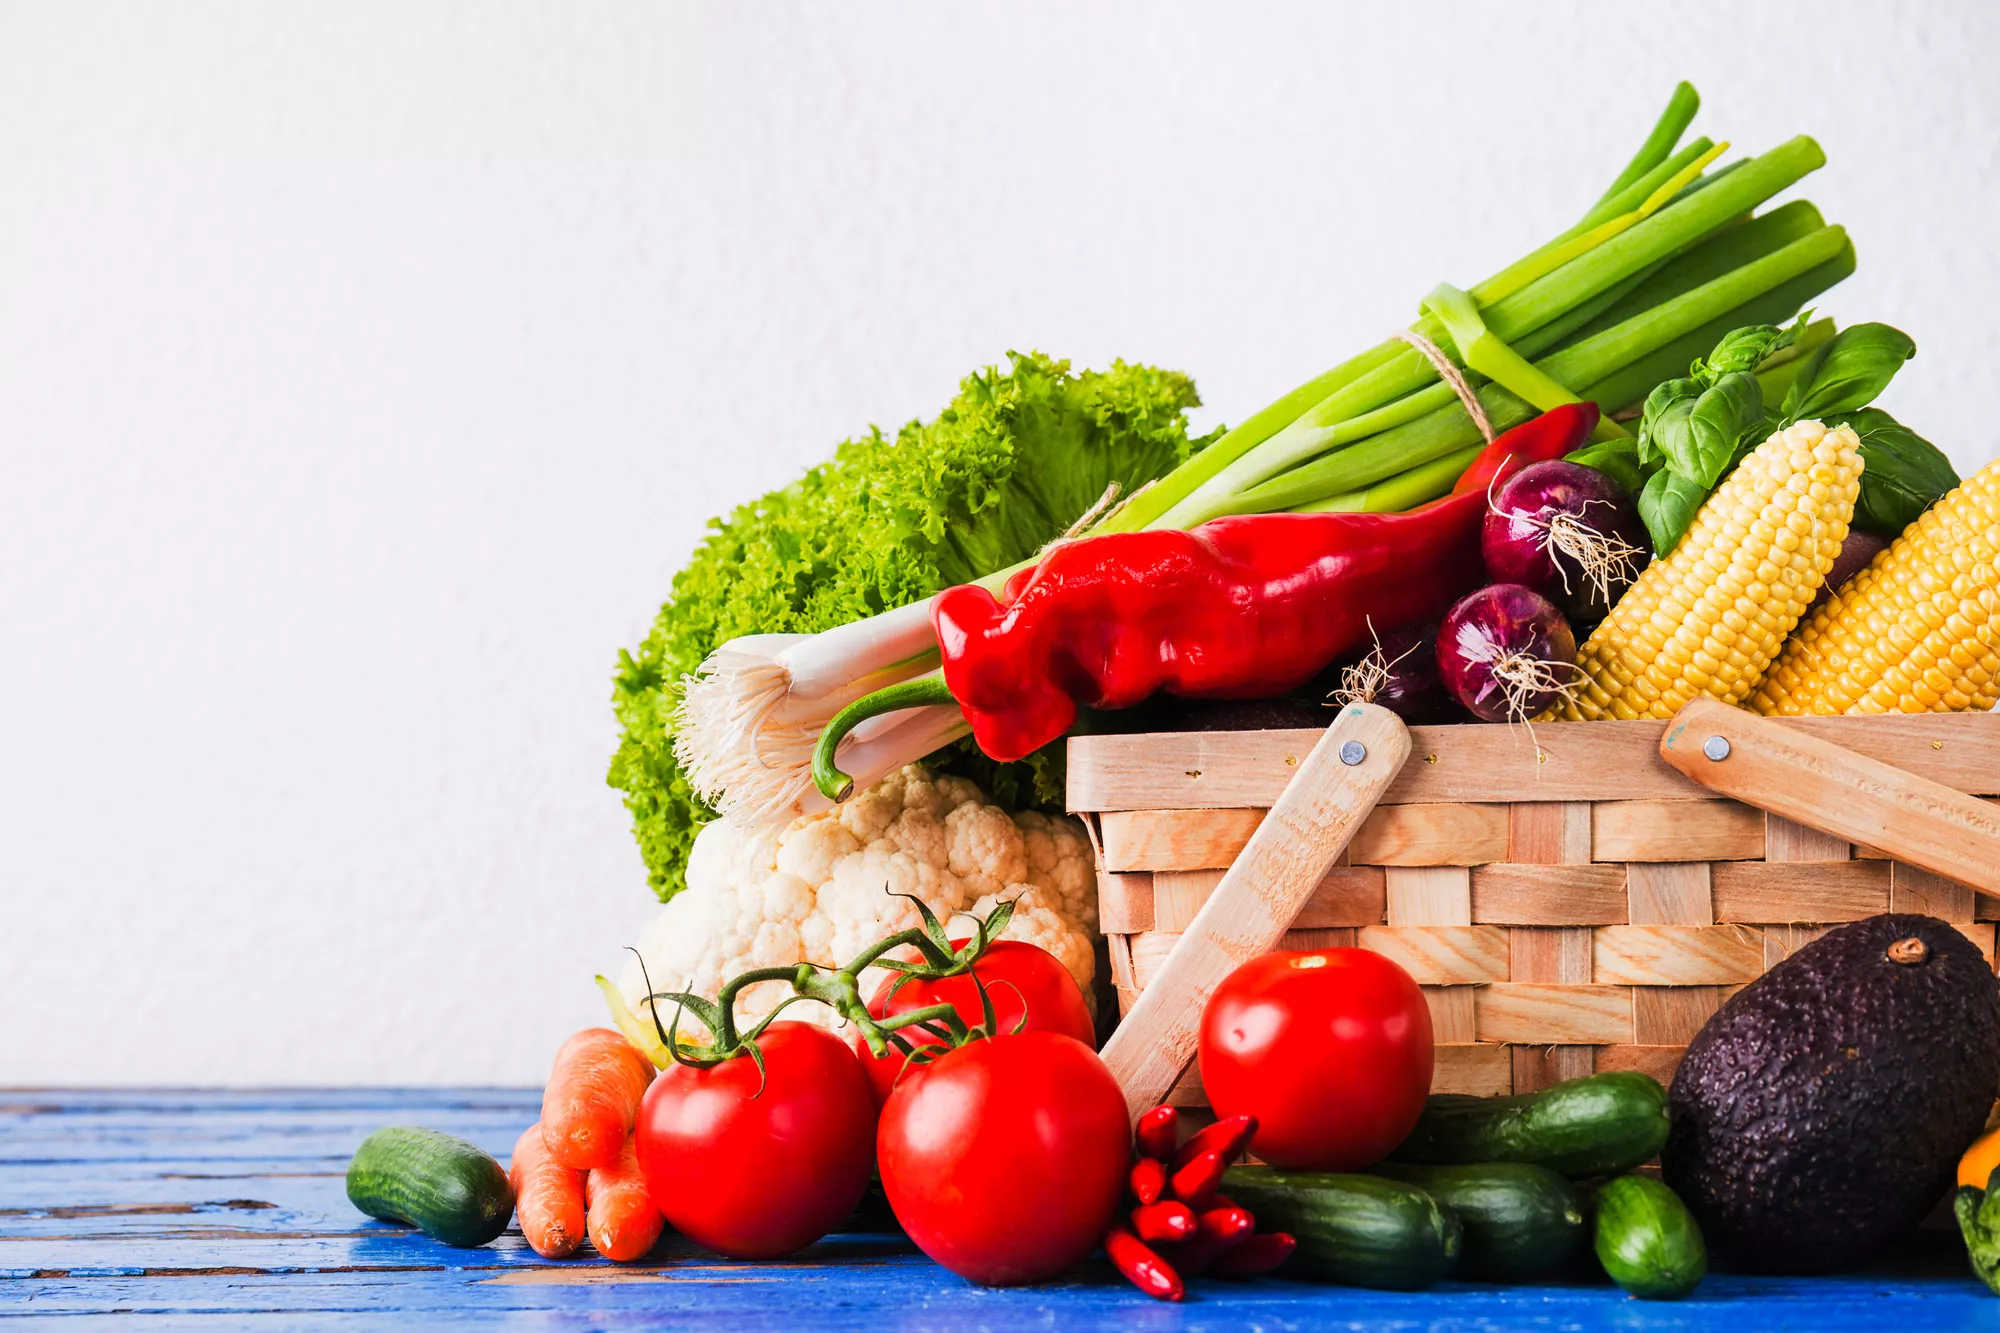
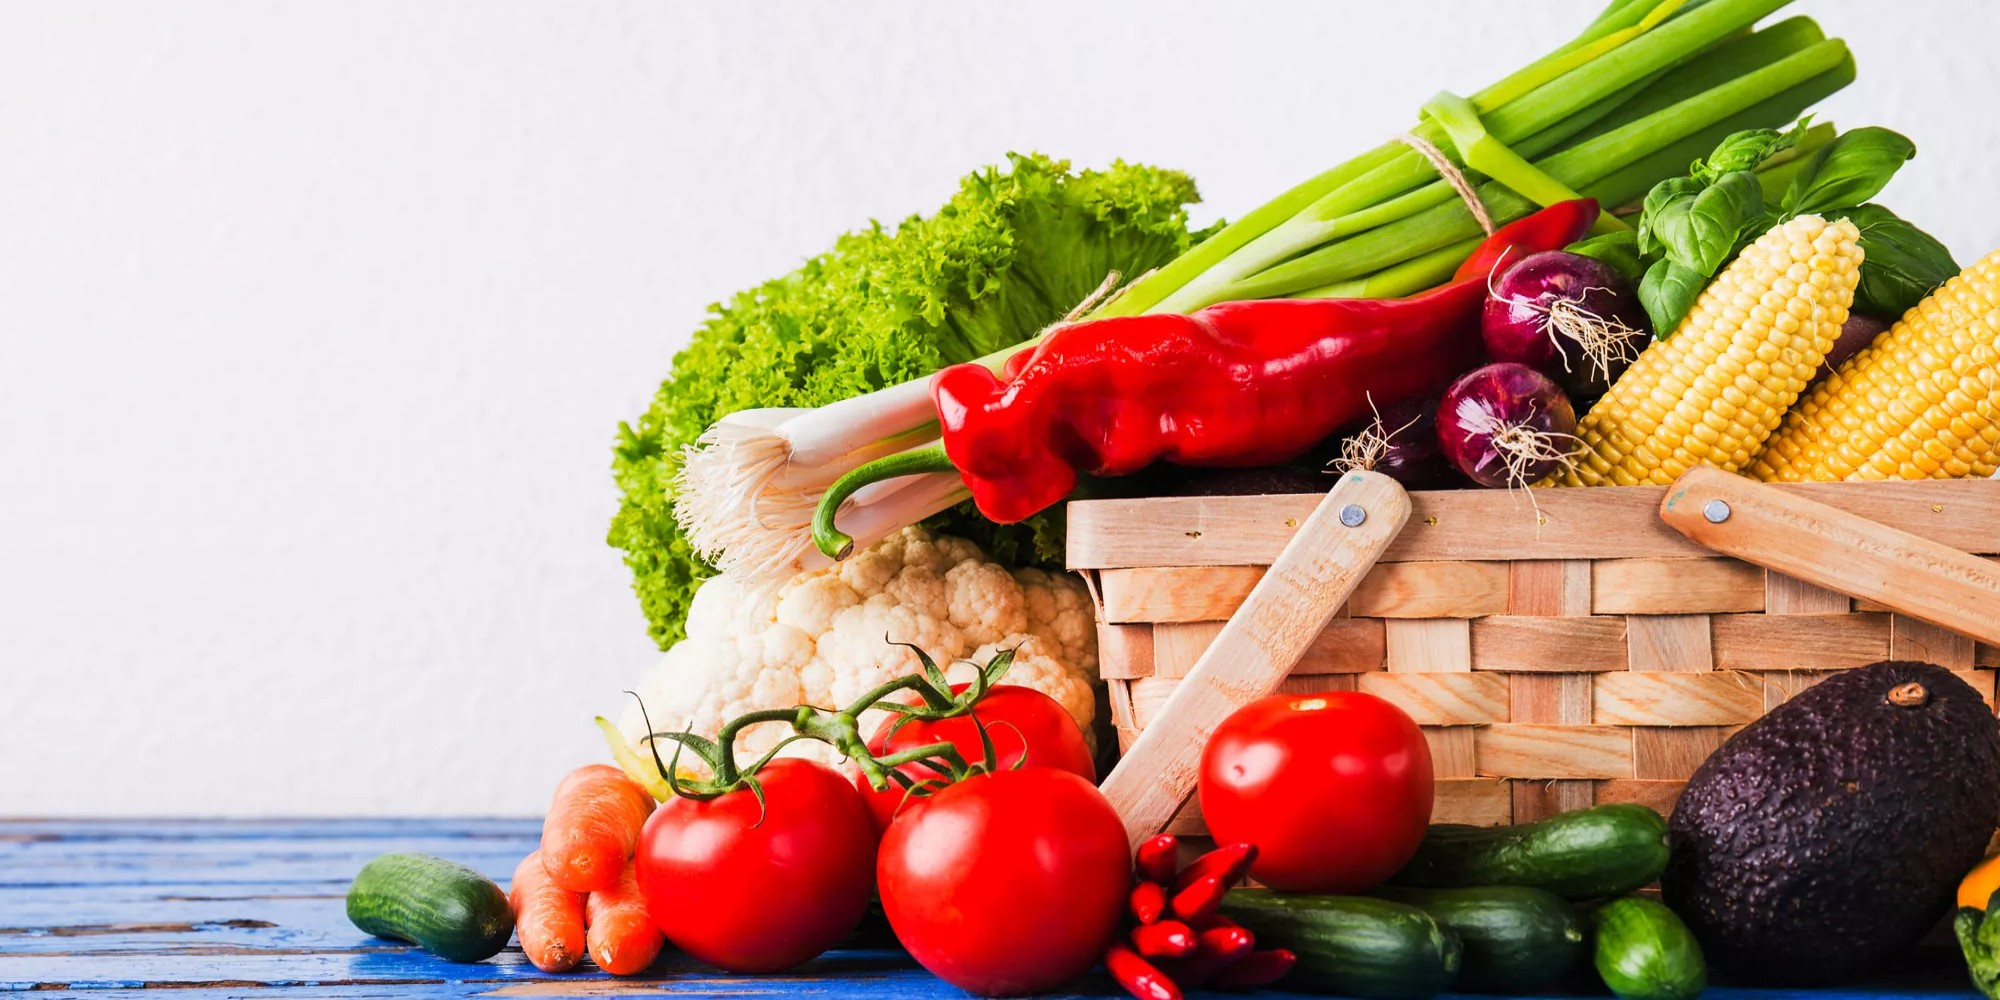
some tiny changes in UX

diff --git a/src/Pages/Index/Index.js b/src/Pages/Index/Index.js
@@ -34,7 +34,7 @@ export default function Index() {
           </Button>
         </SwiperSlide>
 
-        <SwiperSlide className="slide-2" style={{backgroundImage: `url(${bgUrls[1]})`}}>
+        <SwiperSlide className="slide-2" style={{backgroundImage: `url(${bgUrls[2]})`}}>
           <h1 className="mb-2 index-title"> 100% Fresh & Organic Fruits</h1>
           <h2 className="index-sub-title"> We Serve Fresh Vegetables & Fruits </h2>
           <Button variant="contained" color="success">

diff --git a/src/Pages/ProductInfo/ProductInfo.js b/src/Pages/ProductInfo/ProductInfo.js
@@ -34,7 +34,7 @@ export default function ProductInfo() {
       <Hero notIndex={true}>
         <SwiperSlide
           className="slide-1"
-          style={{ backgroundImage: `url(${bg[0]})` }}
+          style={{ backgroundImage: `url(${bg[1]})` }}
         >
           <p className="product-page"> Home Products </p>
           <h1 className="product-title">Product info</h1>

diff --git a/src/Pages/Checkout/Checkout.js b/src/Pages/Checkout/Checkout.js
@@ -24,7 +24,7 @@ export default function Checkout() {
       <Hero notIndex={true}>
         <SwiperSlide
           className="slide-1"
-          style={{ backgroundImage: `url(${bg[0]})` }}
+          style={{ backgroundImage: `url(${bg[1]})` }}
         >
           <p className="product-page"> Home Products </p>
           <h1 className="product-title">Product info</h1>

diff --git a/src/Pages/WishList/WishList.js b/src/Pages/WishList/WishList.js
@@ -30,7 +30,7 @@ export default function WishList() {
       <Hero notIndex={true}>
         <SwiperSlide
           className="slide-1"
-          style={{ backgroundImage: `url(${bg[0]})` }}
+          style={{ backgroundImage: `url(${bg[1]})` }}
         >
           <p className="product-page"> Home WISHLIST </p>
           <h1 className="product-title">MY WISHLIST</h1>

diff --git a/src/Pages/Products/Products.js b/src/Pages/Products/Products.js
@@ -85,7 +85,7 @@ export default function Products() {
       <Hero notIndex={true}>
         <SwiperSlide
           className="slide-1"
-          style={{ backgroundImage: `url(${bg[0]})` }}
+          style={{ backgroundImage: `url(${bg[1]})` }}
         >
           <p className="product-page"> Home Products </p>
           <h1 className="product-title">Products</h1>

diff --git a/src/Pages/Cart/Cart.js b/src/Pages/Cart/Cart.js
@@ -40,7 +40,7 @@ export default function Cart() {
       <Hero notIndex={true}>
         <SwiperSlide
           className="slide-1"
-          style={{ backgroundImage: `url(${bg[0]})` }}
+          style={{ backgroundImage: `url(${bg[1]})` }}
         >
           <p className="product-page"> Home CART </p>
           <h1 className="product-title">MY CART</h1>
